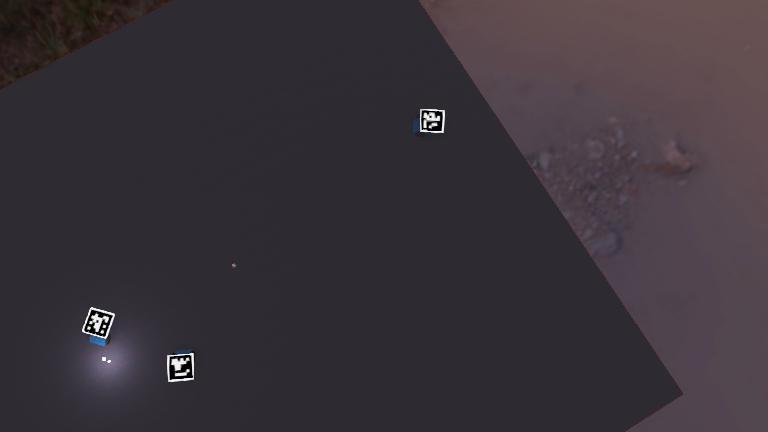
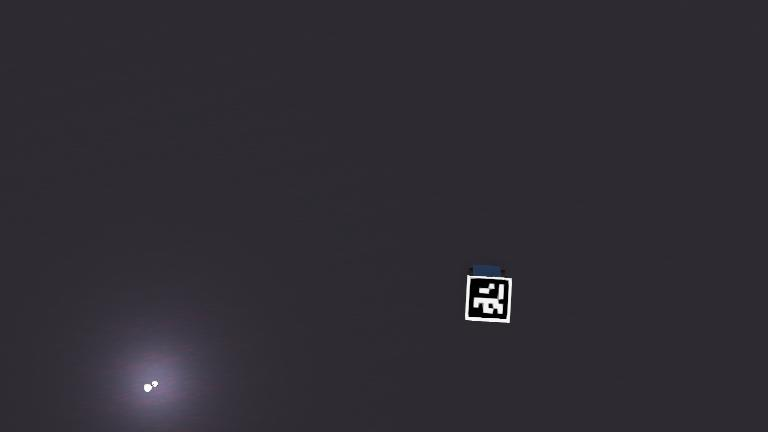
update marker detection & camera
updated the way the marker position and angle is determined. Adjusted the camera class to reflect use

diff --git a/Server/ImageProcessing/marker_detection.py b/Server/ImageProcessing/marker_detection.py
@@ -18,6 +18,7 @@ to do:
 class MarkerDetector:
     def __init__(self, camType1=0, cameraSource1=0, enableCam2=True, camType2=0, cameraSource2=0, debug=False):
         self.DEBUG = debug
+        self.offset = 40
         self.enableCam2 = enableCam2
         self.cam1 = Camera(camType1, cameraSource1)
         if self.enableCam2:
@@ -87,28 +88,31 @@ class MarkerDetector:
             for markerId, corners in markers:
                 # Calculate the center of the marker
                 corners = corners.reshape((4, 2))
-                centerX = int(corners[:, 0].mean())
-                centerY = int(corners[:, 1].mean())
+                (top_left, top_right, bottom_right, bottom_left) = corners
+                top_right = (int(top_right[0]), int(top_right[1]))
+                bottom_right = (int(bottom_right[0]), int(bottom_right[1]))
+                bottom_left = (int(bottom_left[0]), int(bottom_left[1]))
+                top_left = (int(top_left[0]), int(top_left[1]))
+                centerX = int((top_left[0] + bottom_right[0]) / 2.0)
+                centerY = int((top_left[1] + bottom_right[1]) / 2.0)
                 if self.DEBUG:
                     cv2.circle(input1, (centerX, centerY), 5, (0, 255, 0), -1)
                 # Calculate the angle of the marker
-                topLeft = corners[0]
-                topRight = corners[1]
-                angle = self.calculateAngle(topLeft, topRight)
-                # Check if the marker ID is already in the list
-                #markerFound = False
-                # for markerInfo in self.markerInfoList:
-                #     if markerInfo['id'] == markerId:
-                #         # Update the position and angle
-                #         markerInfo['position'] = (centerX, centerY)
-                #         markerInfo['angle'] = angle
-                #         markerFound = True
-                #         break
-                #if not markerFound:
-                    # Add new marker information to the list
+                top_mid = (top_left + top_right) / 2
+                bottom_mid = (bottom_left + bottom_right) / 2
+                vector = bottom_mid - top_mid
+                angle_rad = np.arctan2(vector[1], vector[0])
+                angle = np.degrees(angle_rad)
+                #topLeft = corners[1]
+                #topRight = corners[2]
+                #angle = self.calculateAngle(topLeft, topRight)
+                #if angle < 0:
+                #    angle += 360
+                adjusted_centerX = int(centerX + self.offset * np.cos(np.radians(angle)))
+                adjusted_centerY = int(centerY + self.offset * np.sin(np.radians(angle)))
                 newMarkerInfoList.append({
                     'id': int(markerId),
-                    'position': (centerX, centerY),
+                    'position': (adjusted_centerX, adjusted_centerY),
                     'angle': float(angle)
                 })
 
@@ -116,11 +120,11 @@ class MarkerDetector:
                 # Draw an arrow indicating the orientation of the marker
                 arrow_length = 50  # Length of the arrow
                 for marker in newMarkerInfoList:
-                    centerX, centerY = marker['position']
+                    posX, posY = marker['position']
                     angle = marker['angle']
-                    endX = int(centerX + arrow_length * np.cos(np.radians(angle-90)))
-                    endY = int(centerY + arrow_length * np.sin(np.radians(angle-90)))
-                    cv2.arrowedLine(input1, (centerX, centerY), (endX, endY), (255, 255, 0), 2, tipLength=0.3)
+                    endX = int(posX + arrow_length * np.cos(np.radians(angle)))
+                    endY = int(posY + arrow_length * np.sin(np.radians(angle)))
+                    cv2.arrowedLine(input1, (posX, posY), (endX, endY), (255, 255, 0), 2, tipLength=0.3)
                 corners_list = [np.array(corners, dtype=np.int32) for corners in markersCorners]
                 aruco.drawDetectedMarkers(input1, corners_list, markersId)
                 cv2.imshow("Output", input1)
@@ -149,7 +153,8 @@ class MarkerDetector:
 
 # Example usage:
 if __name__ == "__main__":
-    detector  = MarkerDetector(cameraSource1=1, camType1=0, enableCam2=False, cameraSource2=0, camType2=0, debug=True)
+    detector  = MarkerDetector(cameraSource1='http://localhost:5005/video_feed', camType1=2, enableCam2=False, cameraSource2=0, camType2=0, debug=True)
+
     #time.sleep(4)
     # Initialize variables for FPS calculation
     frame_count = 0

diff --git a/Server/ImageProcessing/camera.py b/Server/ImageProcessing/camera.py
@@ -5,18 +5,14 @@ import platform
 
 class Camera:
     CAMERA = 0
-    VIDEO = 1 #not really used rn
+    WEBCAM = 1 #not really used rn
     WEB = 2
 
     def __init__(self,camType,source=0):
         self.camType = camType
         self.threadWait = False
         if self.camType == 0:
-            if platform.system() == 'Windows':
-                self.capture = cv2.VideoCapture(source) #without dshow it takes 10 minutes for the camera to open.
-                #self.capture = cv2.VideoCapture(source, cv2.CAP_DSHOW) #without dshow it takes 10 minutes for the camera to open.
-            else:
-                self.capture = cv2.VideoCapture(source)
+            self.capture = cv2.VideoCapture(source)
             self.capture.set(cv2.CAP_PROP_BUFFERSIZE, 1)
             self.capture.set(cv2.CAP_PROP_FRAME_WIDTH, 1280)
             self.capture.set(cv2.CAP_PROP_FRAME_HEIGHT, 720)
@@ -27,7 +23,10 @@ class Camera:
             self.thread.daemon = True
             self.thread.start()
         if self.camType == 1: #not used rn
-            self.capture = cv2.VideoCapture(source, cv2.CAP_DSHOW)
+            if platform.system() == 'Windows':
+                self.capture = cv2.VideoCapture(source, cv2.CAP_DSHOW) #without dshow it takes 10 minutes for the camera to open.
+            else:
+                self.capture = cv2.VideoCapture(source)
             self.frame = np.zeros((1920,1080, 3), dtype = np.uint8)
         if self.camType == 2:
             self.capture = cv2.VideoCapture(source)

diff --git a/Server/MQTTConnect.py b/Server/MQTTConnect.py
@@ -22,7 +22,7 @@ def start_camera():
     Waits 5 seconds to give the streams some time to start up.
     '''
     global detector
-    detector  = MarkerDetector(cameraSource1='http://localhost:5005/video_feed', camType1=2, enableCam2=False, cameraSource2=0, camType2=0, debug=True)
+    detector  = MarkerDetector(cameraSource1='http://localhost:5005/video_feed', camType1=2, enableCam2=False, cameraSource2=1, camType2=2, debug=True)
     time.sleep(5)
 
 def on_connect(client, userdata, flags, rc):
@@ -60,6 +60,8 @@ def on_message(client, userdata, msg):
                 positions = get_bot_positions(client)
                 print(positions)
                 client.publish(f"robots/{robots}/receive", positions)
+                client.loop()
+                client.publish(f"robots/{robots}/receive", "START")
         elif payload == "positions":
             get_bot_positions(client)
         else:
